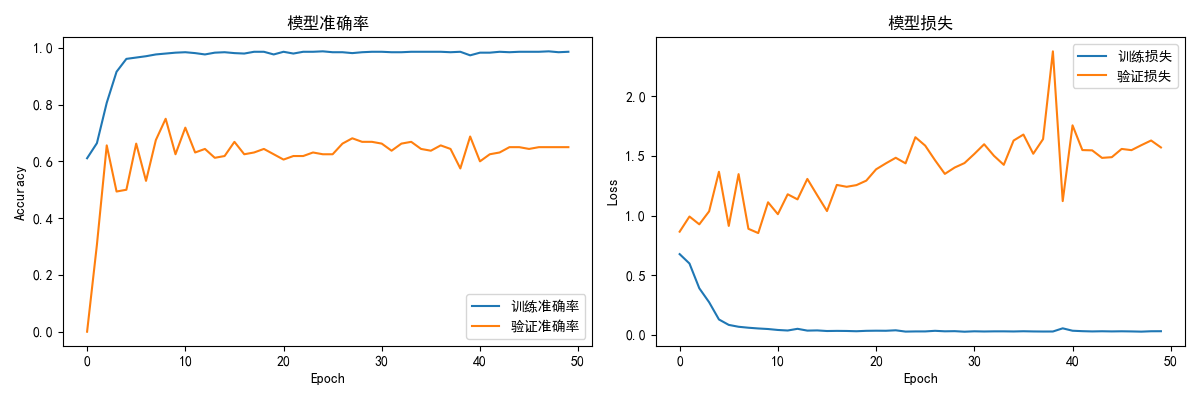
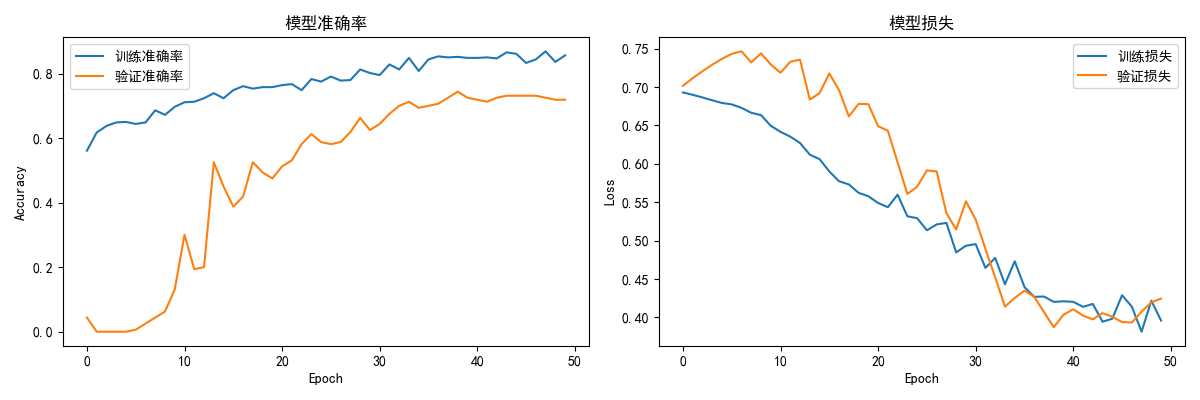
调整参数，分离两个LSTM

diff --git a/lstm_comment_th.py b/lstm_comment_th.py
@@ -42,10 +42,9 @@ def prepare_datasets(comments, types):
 def build_lstm_model(vocab_size=5000, max_len=200):
     """构建LSTM模型"""
     model = Sequential()
-    model.add(Embedding(input_dim=vocab_size, output_dim=256, input_length=max_len))
-    model.add(LSTM(8, dropout=0.2, recurrent_dropout=0.2))
-    model.add(Dense(2, activation='relu'))
-    model.add(Dropout(0.6))
+    model.add(Embedding(input_dim=vocab_size, output_dim=128, input_length=max_len))
+    model.add(LSTM(128, dropout=0.4, recurrent_dropout=0.4))
+    model.add(Dropout(0.2))
     model.add(Dense(2, activation='softmax'))
     model.compile(loss='categorical_crossentropy',
                  optimizer='adamw',
